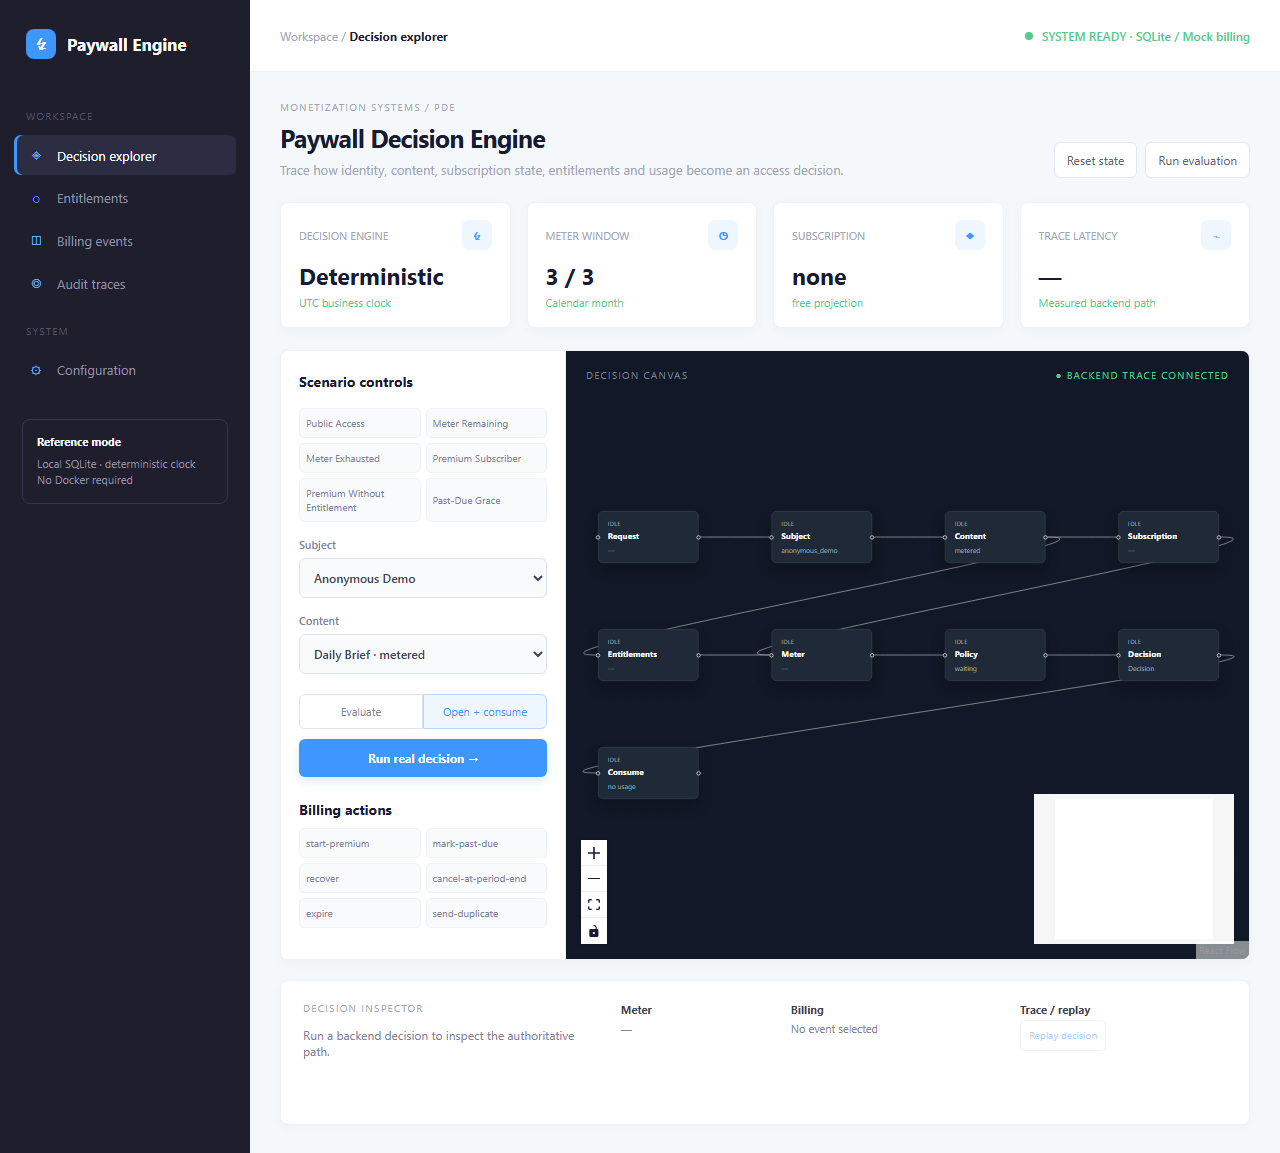
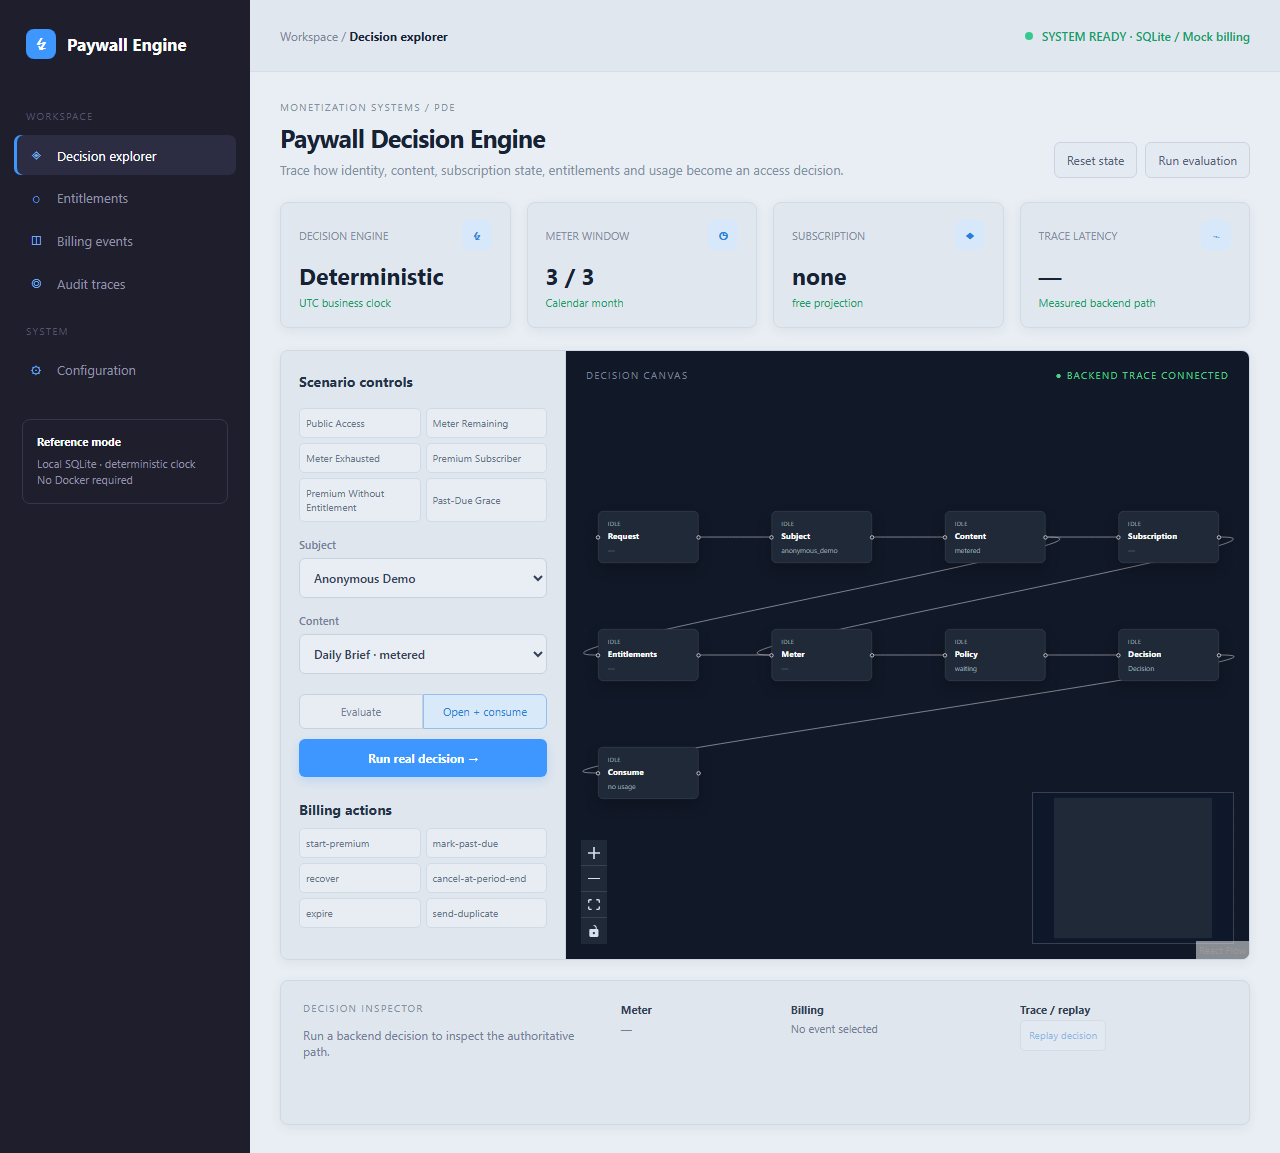
[UI][PDE-023] Harmonize explorer surfaces and controls

diff --git a/frontend/src/style.css b/frontend/src/style.css
@@ -1,3 +1,1 @@
-:root{font-family:Inter,ui-sans-serif,system-ui,-apple-system,BlinkMacSystemFont,"Segoe UI",sans-serif;color:#181c32;background:#f5f8fa;font-size:14px}*{box-sizing:border-box}body{margin:0}button,select{font:inherit}button{cursor:pointer}main{min-height:100vh;background:#f5f8fa}.shell{display:flex;min-height:100vh}.sidebar{width:250px;background:#1e1e2d;color:#9292a7;padding:24px 14px;flex:none}.brand{display:flex;align-items:center;gap:11px;color:#fff;font-weight:700;font-size:17px;padding:5px 12px 32px}.brand-mark{width:30px;height:30px;display:grid;place-items:center;border-radius:8px;background:#3e97ff;color:#fff;font-size:16px}.nav-label{font-size:10px;text-transform:uppercase;letter-spacing:.12em;color:#56566d;padding:18px 12px 9px}.nav-item{display:flex;gap:11px;align-items:center;padding:11px 12px;border-radius:7px;margin:3px 0;color:#9292a7;font-size:13px}.nav-item.active{background:#2c2c43;color:#fff;box-shadow:inset 3px 0 #3e97ff}.nav-icon{width:20px;text-align:center;color:#6faef0}.side-note{margin:30px 8px 0;padding:14px;border:1px solid #36364c;border-radius:8px;font-size:11px;line-height:1.5}.side-note b{display:block;color:#fff;margin-bottom:5px}.main-area{flex:1;min-width:0}.topbar{height:72px;background:#fff;border-bottom:1px solid #eff2f5;display:flex;align-items:center;justify-content:space-between;padding:0 30px}.crumb{color:#a1a5b7;font-size:12px}.crumb strong{color:#181c32}.system{display:flex;align-items:center;gap:9px;color:#50cd89;font-size:12px;font-weight:600}.dot{width:8px;height:8px;border-radius:50%;background:#50cd89}.content{padding:28px 30px}.page-title{display:flex;justify-content:space-between;align-items:flex-end;margin-bottom:24px}.eyebrow{font-size:10px;letter-spacing:.13em;color:#a1a5b7;margin:0 0 7px;text-transform:uppercase}.page-title h1{font-size:25px;letter-spacing:-.03em;margin:0;color:#181c32}.sub{color:#a1a5b7;margin:7px 0 0;font-size:13px}.toolbar{display:flex;gap:8px}.toolbar button,.outline{border:1px solid #e4e6ef;background:#fff;color:#5e6278;border-radius:6px;padding:9px 12px;font-size:12px}.toolbar button:hover{border-color:#3e97ff;color:#3e97ff}.kpis{display:grid;grid-template-columns:repeat(4,1fr);gap:16px;margin-bottom:22px}.kpi{background:#fff;border:1px solid #eff2f5;border-radius:8px;padding:17px 18px;box-shadow:0 3px 12px #2e3a5d08}.kpi-top{display:flex;justify-content:space-between;align-items:center;color:#a1a5b7;font-size:11px}.kpi-icon{width:30px;height:30px;border-radius:7px;display:grid;place-items:center;background:#eef6ff;color:#3e97ff;font-weight:700}.kpi strong{display:block;font-size:23px;margin:10px 0 4px;color:#181c32}.kpi small{font-size:11px;color:#50cd89}.workspace{display:grid;grid-template-columns:285px minmax(0,1fr);height:610px;background:#fff;border:1px solid #eff2f5;border-radius:8px;overflow:hidden;box-shadow:0 3px 12px #2e3a5d08}.control-panel{padding:21px 18px;border-right:1px solid #eff2f5;overflow:auto}.control-panel h2{font-size:14px;margin:0 0 17px}.control-panel label{display:block;color:#7e8299;font-size:11px;font-weight:600;margin:15px 0}.control-panel select{display:block;width:100%;background:#f9fafb;color:#3f4254;border:1px solid #e1e3ea;padding:10px;border-radius:6px;margin-top:6px;font-size:12px}.presets,.billing{display:grid;grid-template-columns:1fr 1fr;gap:5px}.presets button,.billing button{background:#f9fafb;color:#7e8299;border:1px solid #eff2f5;border-radius:5px;padding:7px 6px;font-size:10px;text-align:left}.presets button:hover,.billing button:hover{background:#eef6ff;color:#3e97ff;border-color:#b6d7ff}.seg{display:flex;margin:20px 0 10px}.seg button{flex:1;padding:9px 5px;background:#fff;color:#7e8299;border:1px solid #e1e3ea;font-size:11px}.seg button:first-child{border-radius:6px 0 0 6px}.seg button:last-child{border-radius:0 6px 6px 0}.seg .on{background:#eef6ff;color:#3e97ff;border-color:#b6d7ff}.run{width:100%;padding:11px;background:#3e97ff;color:#fff;font-weight:700;border:0;border-radius:6px;font-size:12px;box-shadow:0 4px 10px #3e97ff33}.run:hover{background:#2684ed}.reset{width:100%;margin-top:8px;padding:9px;background:#fff;color:#7e8299;border:1px solid #e1e3ea;border-radius:6px;font-size:11px}.billing-title{margin-top:23px!important;margin-bottom:9px!important}.error{color:#f1416c;font-size:11px;margin-top:10px}.canvas{position:relative;background:#111827;min-width:0}.canvas-head{position:absolute;z-index:2;top:17px;left:20px;right:20px;display:flex;justify-content:space-between;font-size:10px;letter-spacing:.12em;color:#7e8299}.live{color:#50cd89}.node{min-width:145px;padding:11px 13px;border:1px solid #374151;border-radius:7px;background:#1f2937;color:#fff;box-shadow:0 9px 20px #0003}.node strong,.node span,.node small{display:block}.node strong{font-size:12px;margin:5px 0}.node span{font-size:10px;color:#9ca3af;max-width:170px;white-space:nowrap;overflow:hidden;text-overflow:ellipsis}.node small{text-transform:uppercase;color:#9ca3af;font-size:8px;letter-spacing:.1em}.node.succeeded,.node.matched{border-color:#50cd89}.node.failed{border-color:#f1416c}.node.warning{border-color:#ffc700}.node.skipped{opacity:.45}.inspector{margin-top:20px;background:#fff;border:1px solid #eff2f5;border-radius:8px;display:grid;grid-template-columns:2fr 1fr 1.4fr 1.4fr;gap:22px;padding:20px 22px;min-height:145px;box-shadow:0 3px 12px #2e3a5d08}.inspector h2{margin:0 0 7px;font-size:16px}.inspector p:not(.eyebrow){color:#7e8299;font-size:12px}.inspector>div:not(:first-child){font-size:11px;color:#7e8299;line-height:1.7}.inspector b{color:#3f4254}.pill{font-size:10px;padding:5px 7px;border-radius:4px;background:#e8fff3;color:#50cd89}.pill.paywall{background:#fff0f3;color:#f1416c}.timeline{margin-top:8px;max-height:76px;overflow:auto}.timeline div{font-size:10px;color:#a1a5b7;padding:2px}.timeline .active{color:#50cd89}code{font-size:10px;color:#7e8299}.inspector button{border:1px solid #e1e3ea;background:#fff;color:#3e97ff;border-radius:5px;padding:6px 8px;font-size:10px}.inspector button:disabled{opacity:.45}@media(max-width:1100px){.sidebar{width:210px}.kpis{grid-template-columns:repeat(2,1fr)}.workspace{grid-template-columns:240px 1fr}}@media(max-width:760px){.sidebar{display:none}.content{padding:18px}.topbar{padding:0 18px}.page-title{display:block}.toolbar{margin-top:14px}.workspace{grid-template-columns:1fr;height:auto}.control-panel{border-right:0;border-bottom:1px solid #eff2f5}.canvas{height:550px}.inspector{grid-template-columns:1fr 1fr}}
-:root{font-family:Inter,ui-sans-serif,system-ui,-apple-system,BlinkMacSystemFont,"Segoe UI",sans-serif;color:#181c32;background:#f5f8fa;font-size:14px}*{box-sizing:border-box}body{margin:0}button,select{font:inherit}button{cursor:pointer}main{min-height:100vh;background:#f5f8fa}.shell{display:flex;min-height:100vh}.sidebar{width:250px;background:#1e1e2d;color:#9292a7;padding:24px 14px;flex:none}.brand{display:flex;align-items:center;gap:11px;color:#fff;font-weight:700;font-size:17px;padding:5px 12px 32px}.brand-mark{width:30px;height:30px;display:grid;place-items:center;border-radius:8px;background:#3e97ff;color:#fff;font-size:16px}.nav-label{font-size:10px;text-transform:uppercase;letter-spacing:.12em;color:#56566d;padding:18px 12px 9px}.nav-item{display:flex;gap:11px;align-items:center;padding:11px 12px;border-radius:7px;margin:3px 0;color:#9292a7;font-size:13px}.nav-item.active{background:#2c2c43;color:#fff;box-shadow:inset 3px 0 #3e97ff}.nav-icon{width:20px;text-align:center;color:#6faef0}.side-note{margin:30px 8px 0;padding:14px;border:1px solid #36364c;border-radius:8px;font-size:11px;line-height:1.5}.side-note b{display:block;color:#fff;margin-bottom:5px}.main-area{flex:1;min-width:0}.topbar{height:72px;background:#fff;border-bottom:1px solid #eff2f5;display:flex;align-items:center;justify-content:space-between;padding:0 30px}.crumb{color:#a1a5b7;font-size:12px}.crumb strong{color:#181c32}.system{display:flex;align-items:center;gap:9px;color:#50cd89;font-size:12px;font-weight:600}.dot{width:8px;height:8px;border-radius:50%;background:#50cd89}.content{padding:28px 30px}.page-title{display:flex;justify-content:space-between;align-items:flex-end;margin-bottom:24px}.eyebrow{font-size:10px;letter-spacing:.13em;color:#a1a5b7;margin:0 0 7px;text-transform:uppercase}.page-title h1{font-size:25px;letter-spacing:-.03em;margin:0;color:#181c32}.sub{color:#a1a5b7;margin:7px 0 0;font-size:13px}.toolbar{display:flex;gap:8px}.toolbar button,.outline{border:1px solid #e4e6ef;background:#fff;color:#5e6278;border-radius:6px;padding:9px 12px;font-size:12px}.kpis{display:grid;grid-template-columns:repeat(4,1fr);gap:16px;margin-bottom:22px}.kpi{background:#fff;border:1px solid #eff2f5;border-radius:8px;padding:17px 18px;box-shadow:0 3px 12px #2e3a5d08}.kpi strong{display:block;font-size:23px;margin:10px 0 4px;color:#181c32}.workspace{display:grid;grid-template-columns:285px minmax(0,1fr);height:610px;background:#fff;border:1px solid #eff2f5;border-radius:8px;overflow:hidden;box-shadow:0 3px 12px #2e3a5d08}.control-panel,aside{padding:21px 18px;border-right:1px solid #eff2f5;overflow:auto;background:#fff}.control-panel h2,aside h2{font-size:14px;margin:0 0 17px}.control-panel label,aside label{display:block;color:#7e8299;font-size:11px;font-weight:600;margin:15px 0}.control-panel select,aside select{display:block;width:100%;background:#f9fafb;color:#3f4254;border:1px solid #e1e3ea;padding:10px;border-radius:6px;margin-top:6px;font-size:12px}.presets,.billing{display:grid;grid-template-columns:1fr 1fr;gap:5px}.presets button,.billing button{background:#f9fafb;color:#7e8299;border:1px solid #eff2f5;border-radius:5px;padding:7px 6px;font-size:10px;text-align:left}.presets button:hover,.billing button:hover{background:#eef6ff;color:#3e97ff;border-color:#b6d7ff}.seg{display:flex;margin:20px 0 10px}.seg button{flex:1;padding:9px 5px;background:#fff;color:#7e8299;border:1px solid #e1e3ea;font-size:11px}.seg .on{background:#eef6ff;color:#3e97ff;border-color:#b6d7ff}.run{width:100%;padding:11px;background:#3e97ff;color:#fff;font-weight:700;border:0;border-radius:6px;font-size:12px}.reset{width:100%;margin-top:8px;padding:9px;background:#fff;color:#7e8299;border:1px solid #e1e3ea;border-radius:6px;font-size:11px}.billing-title{margin-top:23px!important;margin-bottom:9px!important}.error{color:#f1416c;font-size:11px;margin-top:10px}.canvas{position:relative;background:#111827;min-width:0}.canvas-head{position:absolute;z-index:2;top:17px;left:20px;right:20px;display:flex;justify-content:space-between;font-size:10px;letter-spacing:.12em;color:#7e8299}.live{color:#50cd89}.node{min-width:145px;padding:11px 13px;border:1px solid #374151;border-radius:7px;background:#1f2937;color:#fff;box-shadow:0 9px 20px #0003}.node strong,.node span,.node small{display:block}.node strong{font-size:12px;margin:5px 0}.node span{font-size:10px;color:#9ca3af;max-width:170px;white-space:nowrap;overflow:hidden;text-overflow:ellipsis}.node small{text-transform:uppercase;color:#9ca3af;font-size:8px;letter-spacing:.1em}.node.succeeded,.node.matched{border-color:#50cd89}.node.failed{border-color:#f1416c}.node.warning{border-color:#ffc700}.node.skipped{opacity:.45}.inspector{margin-top:20px;background:#fff;border:1px solid #eff2f5;border-radius:8px;display:grid;grid-template-columns:2fr 1fr 1.4fr 1.4fr;gap:22px;padding:20px 22px;min-height:145px;box-shadow:0 3px 12px #2e3a5d08}.inspector h2{margin:0 0 7px;font-size:16px}.inspector p:not(.eyebrow){color:#7e8299;font-size:12px}.inspector>div:not(:first-child){font-size:11px;color:#7e8299;line-height:1.7}.inspector b{color:#3f4254}.pill{font-size:10px;padding:5px 7px;border-radius:4px;background:#e8fff3;color:#50cd89}.pill.paywall{background:#fff0f3;color:#f1416c}.timeline{margin-top:8px;max-height:76px;overflow:auto}.timeline div{font-size:10px;color:#a1a5b7;padding:2px}.timeline .active{color:#50cd89}code{font-size:10px;color:#7e8299}.inspector button{border:1px solid #e1e3ea;background:#fff;color:#3e97ff;border-radius:5px;padding:6px 8px;font-size:10px}.inspector button:disabled{opacity:.45}@media(max-width:1100px){.sidebar{width:210px}.kpis{grid-template-columns:repeat(2,1fr)}.workspace{grid-template-columns:240px 1fr}}@media(max-width:760px){.sidebar{display:none}.content{padding:18px}.topbar{padding:0 18px}.page-title{display:block}.toolbar{margin-top:14px}.workspace{grid-template-columns:1fr;height:auto}.control-panel{border-right:0;border-bottom:1px solid #eff2f5}.canvas{height:550px}.inspector{grid-template-columns:1fr 1fr}}
-header{height:72px;background:#fff;border-bottom:1px solid #eff2f5;padding:0 30px;display:flex;align-items:center;justify-content:space-between}header h1{font-size:20px;color:#181c32}header .eyebrow{color:#a1a5b7}header .sub{color:#a1a5b7}
+:root{font-family:Inter,ui-sans-serif,system-ui,-apple-system,BlinkMacSystemFont,"Segoe UI",sans-serif;color:#182235;background:#e9eef4;font-size:14px}*{box-sizing:border-box}body{margin:0}button,select{font:inherit}button{cursor:pointer}main{min-height:100vh;background:#e9eef4}.shell{display:flex;min-height:100vh}.sidebar{width:250px;background:#1e1e2d;color:#9292a7;padding:24px 14px;flex:none}.brand{display:flex;align-items:center;gap:11px;color:#fff;font-weight:700;font-size:17px;padding:5px 12px 32px}.brand-mark{width:30px;height:30px;display:grid;place-items:center;border-radius:8px;background:#3e97ff;color:#fff;font-size:16px}.nav-label{font-size:10px;text-transform:uppercase;letter-spacing:.12em;color:#56566d;padding:18px 12px 9px}.nav-item{display:flex;gap:11px;align-items:center;padding:11px 12px;border-radius:7px;margin:3px 0;color:#9292a7;font-size:13px}.nav-item.active{background:#2c2c43;color:#fff;box-shadow:inset 3px 0 #3e97ff}.nav-icon{width:20px;text-align:center;color:#6faef0}.side-note{margin:30px 8px 0;padding:14px;border:1px solid #36364c;border-radius:8px;font-size:11px;line-height:1.5}.side-note b{display:block;color:#fff;margin-bottom:5px}.main-area{flex:1;min-width:0}.topbar{height:72px;background:#e1e7ef;border-bottom:1px solid #d5dde7;display:flex;align-items:center;justify-content:space-between;padding:0 30px}.crumb{color:#7b8798;font-size:12px}.crumb strong{color:#182235}.system{display:flex;align-items:center;gap:9px;color:#159f68;font-size:12px;font-weight:600}.dot{width:8px;height:8px;border-radius:50%;background:#36c98f}.content{padding:28px 30px}.page-title{display:flex;justify-content:space-between;align-items:flex-end;margin-bottom:24px}.eyebrow{font-size:10px;letter-spacing:.13em;color:#8190a3;margin:0 0 7px;text-transform:uppercase}.page-title h1{font-size:25px;letter-spacing:-.03em;margin:0;color:#182235}.sub{color:#8190a3;margin:7px 0 0;font-size:13px}.toolbar{display:flex;gap:8px}.toolbar button{border:1px solid #cbd5e1;background:#e4eaf1;color:#526176;border-radius:6px;padding:9px 12px;font-size:12px}.toolbar button:hover{border-color:#3e97ff;color:#267fd8;background:#eaf3ff}.kpis{display:grid;grid-template-columns:repeat(4,1fr);gap:16px;margin-bottom:22px}.kpi{background:#e1e7ef;border:1px solid #d2dbe5;border-radius:8px;padding:17px 18px;box-shadow:0 3px 12px #26364d10}.kpi-top{display:flex;justify-content:space-between;align-items:center;color:#7e8da1;font-size:11px}.kpi-icon{width:30px;height:30px;border-radius:7px;display:grid;place-items:center;background:#d7e8fb;color:#267fd8;font-weight:700}.kpi strong{display:block;font-size:23px;margin:10px 0 4px;color:#182235}.kpi small{font-size:11px;color:#159f68}.workspace{display:grid;grid-template-columns:285px minmax(0,1fr);height:610px;background:#dfe6ee;border:1px solid #cfd9e4;border-radius:8px;overflow:hidden;box-shadow:0 3px 12px #26364d12}.workspace aside{padding:21px 18px;border-right:1px solid #cbd5e1;overflow:auto;background:#dfe6ee}.workspace aside h2{font-size:14px;margin:0 0 17px;color:#24344a}.workspace aside label{display:block;color:#718096;font-size:11px;font-weight:600;margin:15px 0}.workspace aside select{display:block;width:100%;background:#e9eef4;color:#334155;border:1px solid #c7d2df;padding:10px;border-radius:6px;margin-top:6px;font-size:12px}.presets,.billing{display:grid;grid-template-columns:1fr 1fr;gap:5px}.presets button,.billing button{background:#e8edf3;color:#66758a;border:1px solid #d1dbe5;border-radius:5px;padding:7px 6px;font-size:10px;text-align:left}.presets button:hover,.billing button:hover{background:#e7f2ff;color:#267fd8;border-color:#9fc8f1}.seg{display:flex;margin:20px 0 10px}.seg button{flex:1;padding:9px 5px;background:#e7edf3;color:#718096;border:1px solid #c7d2df;font-size:11px}.seg button:first-child{border-radius:6px 0 0 6px}.seg button:last-child{border-radius:0 6px 6px 0}.seg .on{background:#d8eafa;color:#267fd8;border-color:#91bff0}.run{width:100%;padding:11px;background:#3e97ff;color:#fff;font-weight:700;border:0;border-radius:6px;font-size:12px;box-shadow:0 4px 10px #3e97ff33}.run:hover{background:#2684ed}.billing-title{margin-top:23px!important;margin-bottom:9px!important}.error{color:#d92d5a;background:#fde7ed;border:1px solid #f6b9c8;padding:8px;border-radius:5px;font-size:11px;margin-top:10px}.canvas{position:relative;background:#111827;min-width:0}.canvas-head{position:absolute;z-index:2;top:17px;left:20px;right:20px;display:flex;justify-content:space-between;font-size:10px;letter-spacing:.12em;color:#7e8299}.live{color:#50cd89}.node{min-width:145px;padding:11px 13px;border:1px solid #374151;border-radius:7px;background:#1f2937;color:#fff;box-shadow:0 9px 20px #0003}.node strong,.node span,.node small{display:block}.node strong{font-size:12px;margin:5px 0}.node span{font-size:10px;color:#9ca3af;max-width:170px;white-space:nowrap;overflow:hidden;text-overflow:ellipsis}.node small{text-transform:uppercase;color:#9ca3af;font-size:8px;letter-spacing:.1em}.node.succeeded,.node.matched{border-color:#50cd89}.node.failed{border-color:#f1416c}.node.warning{border-color:#ffc700}.node.skipped{opacity:.45}.react-flow__controls{box-shadow:none}.react-flow__controls-button{background:#1f2937!important;border-color:#374151!important;color:#d7e1ee!important;fill:#d7e1ee!important}.react-flow__minimap{background:#1f2937!important;border:1px solid #374151!important}.react-flow__minimap-mask{fill:#0f172a!important}.inspector{margin-top:20px;background:#dfe6ee;border:1px solid #cfd9e4;border-radius:8px;display:grid;grid-template-columns:2fr 1fr 1.4fr 1.4fr;gap:22px;padding:20px 22px;min-height:145px;box-shadow:0 3px 12px #26364d12}.inspector h2{margin:0 0 7px;font-size:16px;color:#24344a}.inspector p:not(.eyebrow){color:#718096;font-size:12px}.inspector>div:not(:first-child){font-size:11px;color:#718096;line-height:1.7}.inspector b{color:#334155}.pill{font-size:10px;padding:5px 7px;border-radius:4px;background:#d9f7e8;color:#159f68}.pill.paywall{background:#fde7ed;color:#d92d5a}.timeline{margin-top:8px;max-height:76px;overflow:auto}.timeline div{font-size:10px;color:#8190a3;padding:2px}.timeline .active{color:#159f68}code{font-size:10px;color:#64748b}.inspector button{border:1px solid #c7d2df;background:#e8edf3;color:#267fd8;border-radius:5px;padding:6px 8px;font-size:10px}.inspector button:disabled{opacity:.45}@media(max-width:1100px){.sidebar{width:210px}.kpis{grid-template-columns:repeat(2,1fr)}.workspace{grid-template-columns:240px 1fr}}@media(max-width:760px){.sidebar{display:none}.content{padding:18px}.topbar{padding:0 18px}.page-title{display:block}.toolbar{margin-top:14px}.workspace{grid-template-columns:1fr;height:auto}.workspace aside{border-right:0;border-bottom:1px solid #cbd5e1}.canvas{height:550px}.inspector{grid-template-columns:1fr 1fr}}
